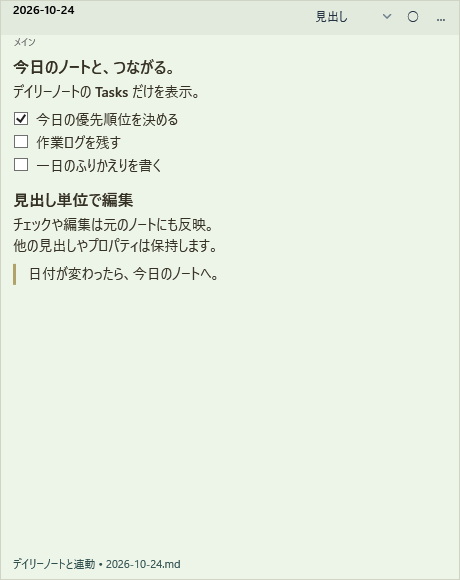
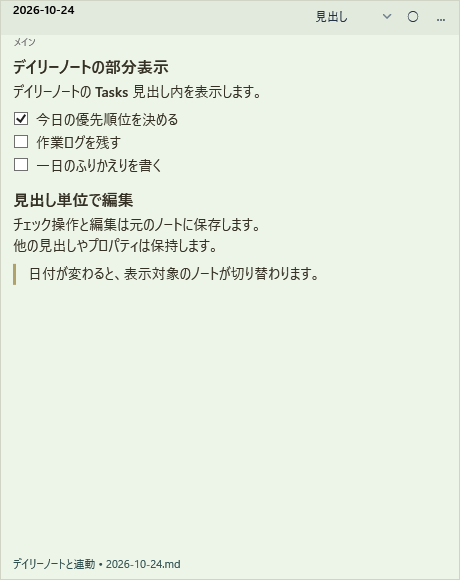
Use neutral Japanese documentation as the translation source

diff --git a/docs/DEVELOPMENT.md b/docs/DEVELOPMENT.md
@@ -2,7 +2,7 @@
 
 # 開発と公開
 
-UI・README・導入ガイド・スクリーンショットは日本語／英語／簡体字中国語／台湾華語（繁体字）／韓国語／ドイツ語／ロシア語／スペイン語／スウェーデン語の9言語を同期します。詳細資料は従来の3言語です。UI対応後、架空データを使う任意実行の `--render-screenshots` で27枚を生成します。[生成・目視確認手順](SCREENSHOTS.md)。`build.ps1` は9言語のREADMEとdocs／examples配下を同梱します。
+UIは9言語に対応しています。README・導入ガイド・スクリーンショットは日本語／英語／簡体字中国語／台湾華語（繁体字）／韓国語／ドイツ語／ロシア語／スペイン語／スウェーデン語の9言語を同期します。詳細資料は従来の3言語です。UI対応後、架空データを使う任意実行の `--render-screenshots` で27枚を生成します。[生成・目視確認手順](SCREENSHOTS.md)。`build.ps1` は9言語のREADMEとdocs／examples配下を同梱します。
 
 v0.0.11以降：複数Vaultのデイリーノートに対応。初期表示名は「メイン」「サブ」で変更可能です。**設定 → Vault・デイリーノート**で登録・既定Vaultを設定します。[複数Vaultの設定と制約](MULTIPLE-VAULTS.md#日本語)。
 
@@ -55,7 +55,11 @@ Google Tasksは同じOAuthクライアント・トークンに `tasks.readonly` 
 
 ## ドキュメントの言語
 
-README・変更履歴・導入／開発ガイド・関連資料・リリース説明を編集するときは、英語・日本語・簡体字中国語（zh-CN）を同じ変更内で同期します。機能、制約、例、バージョン、リンクを揃え、単一ファイル内の言語別併記も可とします。言語切替とビルド時の同梱を確認し、ドキュメントの翻訳とUI・サンプルの翻訳を区別します。公開済みタグ・ZIPは指示なく差し替えません。
+ドキュメントの原本は日本語です。READMEは `README.md` を原本とし、`README.ja.md` は同じ内容を保持します。英語・簡体字中国語を含む他言語版は、日本語原本に基づく翻訳として更新します。機能の説明、用語、構成を変更する場合は、まず日本語へ反映します。
+
+本文は機能、用途、必要条件、操作手順、制約を客観的に記述します。宣伝用のキャッチコピーや、効果を断定する表現は使用しません。画面例のサンプル本文にも同じ方針を適用します。
+
+通常はREADME・変更履歴・導入／開発ガイド・関連資料・リリース説明の日本語・英語・簡体字中国語（zh-CN）を同じ変更内で同期します。日本語のみの修正を指定された場合は、その範囲を優先し、他言語への反映は別変更とします。機能、制約、例、バージョン、リンクを揃え、単一ファイル内の言語別併記も可とします。言語切替とビルド時の同梱を確認し、ドキュメントの翻訳とUI・サンプルの翻訳を区別します。公開済みタグ・ZIPは指示なく差し替えません。
 
 ## 公開手順（指示を受けた場合のみ）
 

diff --git a/docs/SCREENSHOTS.md b/docs/SCREENSHOTS.md
@@ -1,12 +1,14 @@
 [日本語](SCREENSHOTS.md) | [English](SCREENSHOTS.en.md) | [简体中文](SCREENSHOTS.zh-CN.md) | [繁體中文（台灣）](SCREENSHOTS.zh-TW.md) | [한국어](SCREENSHOTS.ko.md) | [Deutsch](SCREENSHOTS.de.md) | [Русский](SCREENSHOTS.ru.md) | [Español](SCREENSHOTS.es.md) | [Svenska](SCREENSHOTS.sv.md)
 
-# スクリーンショットと再生成
+# 画面例と生成手順
 
-v0.0.11のWPFコントロールで、架空のノートを460 × 580 pxのPNGに描画しています。デスクトップの実写やObsidian／Googleの接続画面ではありません。個人のノート・設定・認証情報は使いません。
+アプリのWPFコントロールを使い、サンプルノートを460 × 580 pxのPNGに描画しています。デスクトップの撮影や、Obsidian／Googleへの実接続は行っていません。個人のノート・設定・認証情報は使用していません。
 
-UIの9言語対応を実装してから、本文とUIを各言語に揃えて27枚を再生成しました。台湾華語は繁体字（zh-TW）です。デイリーノートのファイル名は生成日です。
+チェックボックス、Markdown、デイリーノートの3種類を9言語で掲載しています。本文とUIの言語を対応させています。台湾華語は繁体字（zh-TW）です。デイリーノートのファイル名は画像の生成日です。
 
-| Language | Tasks | Markdown | Daily |
+日本語の説明とサンプルを原本とし、他言語版はその翻訳として管理します。
+
+| 言語 | チェックボックス | Markdown | デイリーノート |
 | --- | --- | --- | --- |
 | 日本語 | [![日本語 tasks](images/sticky-tasks-ja.png)](images/sticky-tasks-ja.png) | [![日本語 markdown](images/sticky-markdown-ja.png)](images/sticky-markdown-ja.png) | [![日本語 daily](images/sticky-daily-ja.png)](images/sticky-daily-ja.png) |
 | English | [![English tasks](images/sticky-tasks-en.png)](images/sticky-tasks-en.png) | [![English markdown](images/sticky-markdown-en.png)](images/sticky-markdown-en.png) | [![English daily](images/sticky-daily-en.png)](images/sticky-daily-en.png) |
@@ -27,9 +29,9 @@ Windowsと.NET 8 SDKを用意し、リポジトリ直下で実行します。ロ
 dotnet run --project tests/StickyNotes.Tests -c Release --no-build -- --render-screenshots examples/screenshots docs/images
 ```
 
-## アプリで試す
+## サンプル環境の起動
 
-Language は ja / en / zh-CN / zh-TW / ko / de / ru / es / sv に対応。実行ごとに artifacts 内へ独立したデータフォルダを作成し、指定言語とCLI無効を設定します。起動中のアプリで編集中の内容を保存して終了してからデモを開いてください。
+Language は ja / en / zh-CN / zh-TW / ko / de / ru / es / sv に対応。実行ごとに artifacts 内へ独立したデータフォルダを作成し、指定言語とCLI無効を設定します。起動中のアプリで編集中の内容を保存して終了してからサンプル環境を起動してください。
 
 ```powershell
 $demoData = ./scripts/Prepare-ScreenshotDemo.ps1 -Language ja

diff --git a/examples/screenshots/Daily.md b/examples/screenshots/Daily.md
@@ -7,9 +7,9 @@ tags: [daily]
 
 ## Tasks
 
-### 今日のノートと、つながる。
+### デイリーノートの部分表示
 
-デイリーノートの **Tasks** だけを表示。
+デイリーノートの **Tasks** 見出し内を表示します。
 
 - [x] 今日の優先順位を決める
 - [ ] 作業ログを残す
@@ -17,10 +17,10 @@ tags: [daily]
 
 ### 見出し単位で編集
 
-チェックや編集は元のノートにも反映。
+チェック操作と編集は元のノートに保存します。
 他の見出しやプロパティは保持します。
 
-> 日付が変わったら、今日のノートへ。
+> 日付が変わると、表示対象のノートが切り替わります。
 
 ## Journal
 

diff --git a/examples/screenshots/Tasks.md b/examples/screenshots/Tasks.md
@@ -5,18 +5,18 @@ tags: [sticky, personal]
 status: active
 color: yellow
 ---
-# 小さく書いて、ひとつずつ。
+# タスク一覧
 
-今日のタスクを、デスクトップの手元に。
+Markdownのチェックボックスを表示します。
 
-## 今日のチェックリスト
+## 作業項目
 
 - [x] 朝の予定を確認する
 - [x] デイリーノートを開く
 - [ ] 読書メモをまとめる
 - [ ] 明日の準備をする
 
-> 完了したら、その場でチェック。
+> 表示モードでチェックボックスを操作できます。
 > 変更はMarkdownファイルに保存されます。
 
 **Ctrl+E** で編集 / **Ctrl+S** で保存

diff --git a/examples/screenshots/Project.md b/examples/screenshots/Project.md
@@ -5,14 +5,14 @@ tags: [sticky, project]
 status: active
 color: blue
 ---
-# 思いつきを、書き留める。
+# Markdownの表示例
 
-いつもの **Markdown** が、そのまま付箋に。
+**見出し・リスト・表**を表示できます。
 
-## 週末の小さなプロジェクト
+## 作業メモ
 
-1. アイデアと必要なものを整理する
-2. まずは試してみる
+1. 作業内容と必要な資料を整理する
+2. 試作の手順を記録する
 
 | メモの種類 | 保存先 |
 | --- | --- |

diff --git a/CHANGELOG.ja.md b/CHANGELOG.ja.md
@@ -8,7 +8,7 @@
 
 ## 未リリース
 
-未リリースの変更はありません。
+- 日本語README・導入ガイド・画面説明を、機能・用途・前提条件を説明する文体に変更。日本語サンプル内の表現を修正し、画面例3枚を再生成。日本語をドキュメントの原本とする方針を明記。他言語版への文体の反映は別変更とします。
 
 <a id="v0-0-11"></a>
 
